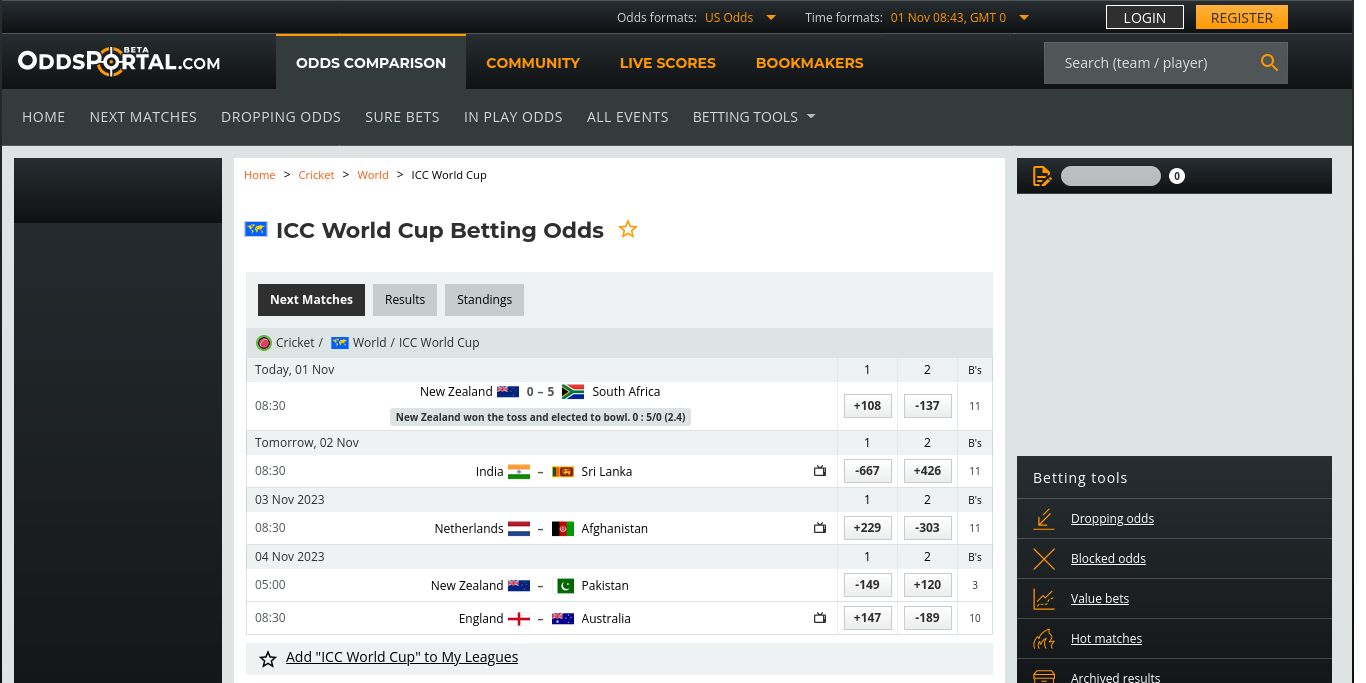
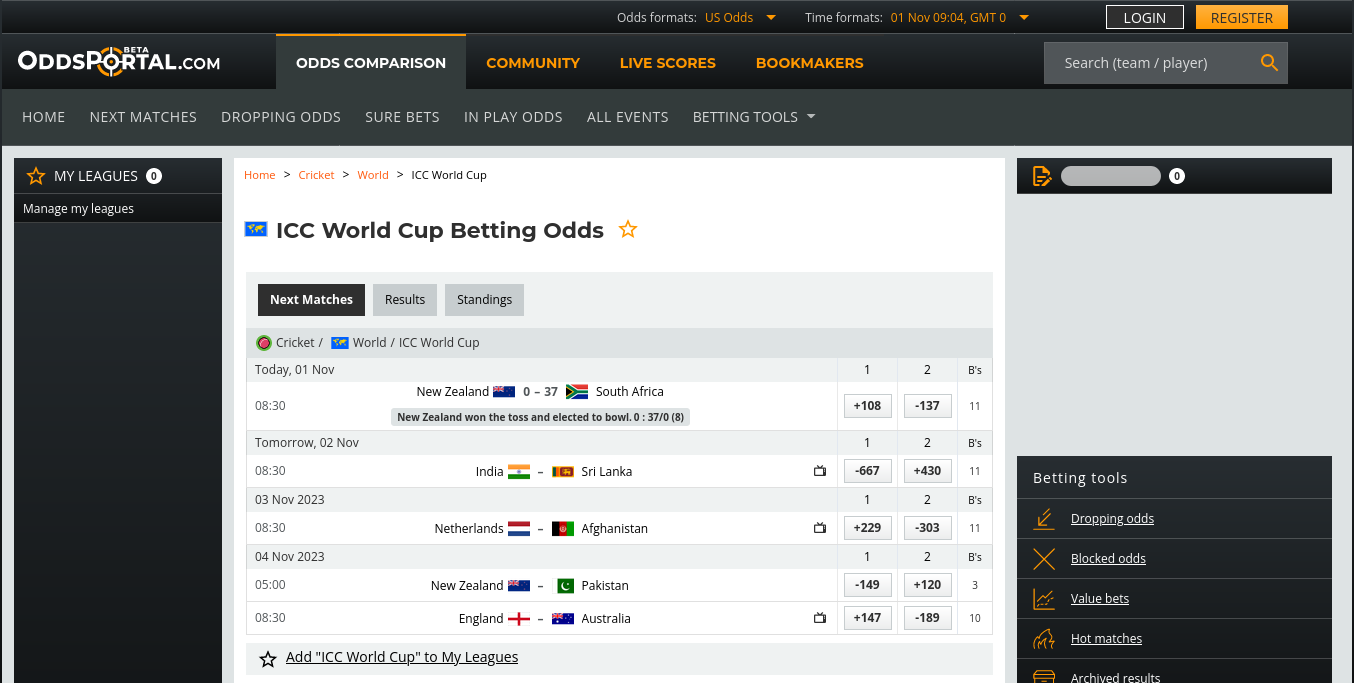
Update Data (Cron) Wed Nov  1 09:05:08 UTC 2023

Changed region(s): [[0.2767, 0.5534, 0.4919, 0.6149], [0.0, 0.246, 0.123, 0.3382], [0.6764, 0.0, 0.7072, 0.0307]]

diff --git a/src/nonview/data/TEAM1_ID_TO_TEAM2_ID_TO_ODDS_PAIR.js b/src/nonview/data/TEAM1_ID_TO_TEAM2_ID_TO_ODDS_PAIR.js
@@ -1,6 +1,6 @@
 // Auto Generated by UpdateTeam1IDToTeam2IDToOddsPair
 // https://www.oddsportal.com/cricket/world/icc-world-cup/
-// 2023-11-01 14:13:51 +0000
+// 2023-11-01 14:35:01 +0000
 
 import { TEAM } from "../core/Team.js";
 
@@ -9,7 +9,7 @@ export const TEAM1_ID_TO_TEAM2_ID_TO_ODDS_PAIR = {
     [TEAM.NZL.id]: [1.73, 2.08],
   },
   [TEAM.IND.id]: {
-    [TEAM.LKA.id]: [1.15, 5.26],
+    [TEAM.LKA.id]: [1.15, 5.30],
   },
   [TEAM.AFG.id]: {
     [TEAM.NLD.id]: [1.33, 3.29],

diff --git a/src/nonview/constants/VERSION.js b/src/nonview/constants/VERSION.js
@@ -1,4 +1,4 @@
 // Auto-generated by javascript_version.py
-export const VERSION_UT = 1698828238;
+export const VERSION_UT = 1698829508;
 export const VERSION_DATETIME = new Date(VERSION_UT * 1_000);
 export const LAST_COMMIT_MESSAGE = "Updated 📊Data";

diff --git a/src/nonview/data/ODI_ID_TO_WINNER.js b/src/nonview/data/ODI_ID_TO_WINNER.js
@@ -1,6 +1,6 @@
 // Auto Generated by UpdateODIIDToWinner
 // https://www.cricbuzz.com/cricket-series/6732/icc-cricket-world-cup-2023/matches
-// 2023-11-01 14:13:32 +0000
+// 2023-11-01 14:34:41 +0000
 
 import { TEAM } from "../core/Team.js";
 

diff --git a/src/nonview/data/POINTS_TABLE.js b/src/nonview/data/POINTS_TABLE.js
@@ -1,6 +1,6 @@
 // Auto Generated by UpdatePointsTable
 // https://www.cricketworldcup.com/standings
-// 2023-11-01 14:13:42 +0000
+// 2023-11-01 14:34:52 +0000
 
 import { TEAM } from "../core/Team.js";
 
